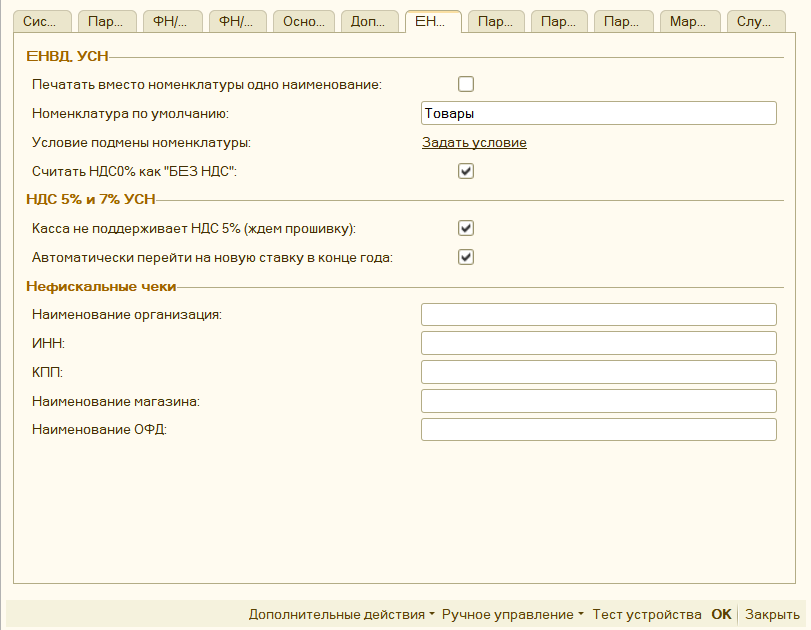
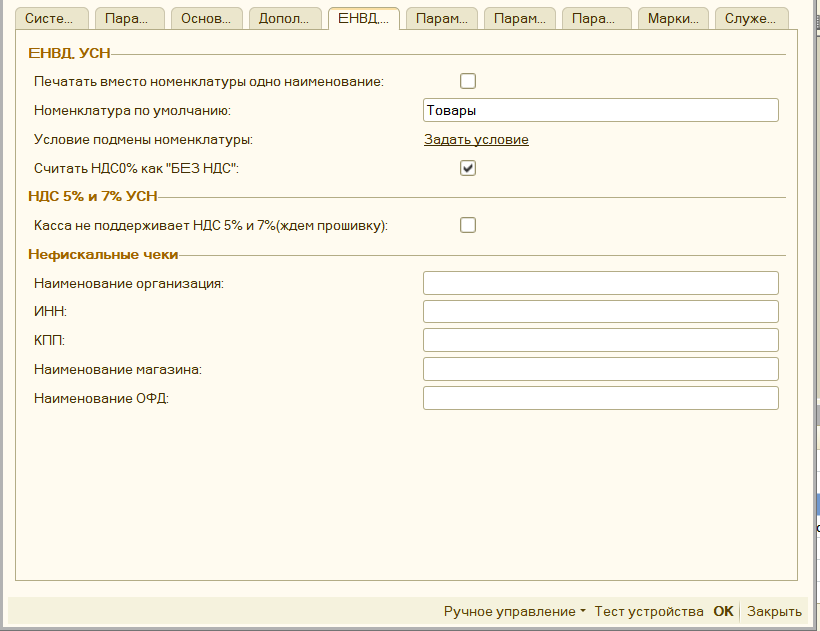
3.94

Changed region(s): [[0.0, 0.0, 1.0, 1.0]]

diff --git a/docs/parameters_description.md b/docs/parameters_description.md
@@ -90,8 +90,6 @@ hide:
 
 **«Касса не поддерживает НДС 5% и 7% (ждем прошивку)»** - если для кассы еще не вышли нужные драйвера для поддержки ставки НДС 5%, то включите данный флаг. Согласно рекомендациям ФНС [(письмо от 17.10.2024 № СД‑4‑3/11815@)](https://www.nalog.gov.ru/rn77/about_fts/about_nalog/15318056), если касса еще не поддерживает новые ставки, то можно пока передавать ставку **без ндс**. В таком случае, обработка перед непосредственной печатью подменит новые ставки на **"без ндс"**, при этом сумма НДС, не будет обнулена, таким образом, если НДС было расчитано для ставки НДС 5% или 7%, то в ОФД уйдет ставка "Без НДС", но сумма ндс останется равна предыдущим ставкам.
 
-**«Автоматически перейти на новую ставку в конце года»** - временная настройка, чтобы спокойно перейти с нового года на новые ставки НДС, можно включить данный параметр. В таком случае, если выполнена доработка, или в параметрах обработки указано заполнение новыми ставками НДС, то до 2025 года, если обработка будет передавать новые ставки НДС, то они автоматически будут преобразованы в ставку **"без ндс"**, а с 2025 года ставка будет передаваться, как она передана. 
-
 **«Наименование организации»** - пока не задействован, используется для печати не фискальных чеков. Данные не передается в ОФД.
 
 **«ИНН»** - пока не задействован, используется для печати не фискальных чеков. Данные не передается в ОФД.

diff --git a/docs/instruction.md b/docs/instruction.md
@@ -24,6 +24,7 @@
    - Например, если у вас драйвера АТОЛ, то прошивка должна быть не ниже версии 5.15, и установлены дравера 10.10.6 или выше. Обратите внимание, что для компоненты драйверов АТОЛ зафиксирована проблема, что затираются настройки к серверу ОФД и Честному знаку, эти настройки нужно заново указать в параметрах обработки. Эти настройки также можно получить через утилиту тест драйвера ФР ![Настройка ОФД АТОЛ](media/nastroyka_ofd.png) 
    - Для касс Вики принт: внутреннее программное обеспечение ККТ должно быть обновлено до версии 665.4.32.
    - также поддерживаются кассы Меркурий, для них также требуется обновить драйвера.
+   - для касс ШтрихМ установить драйвера 5.18.0.1061 [дополнительная информация](https://teletype.in/@poscenter/2025). 
   
 4. Если ранее уже была подключена обработка, и нужно только обновиться для поддержки ставок НДС 5% и 7%, то достаточно на закладке "Служебное" в параметрах обработки выбрать нужную компоненту, например, для ВикиПринт наименование компонента "ВикиПринтККТ НДС", для АТОЛ "АтолККТ НДС", для Меркурий, компонента заменила предыдущую и дополнительно ничего не нужно менять, только удалить все ранее скачанные, и скачать компоненты заново.
    ![Настройка компонент НДС](media/nds_component.png) 
